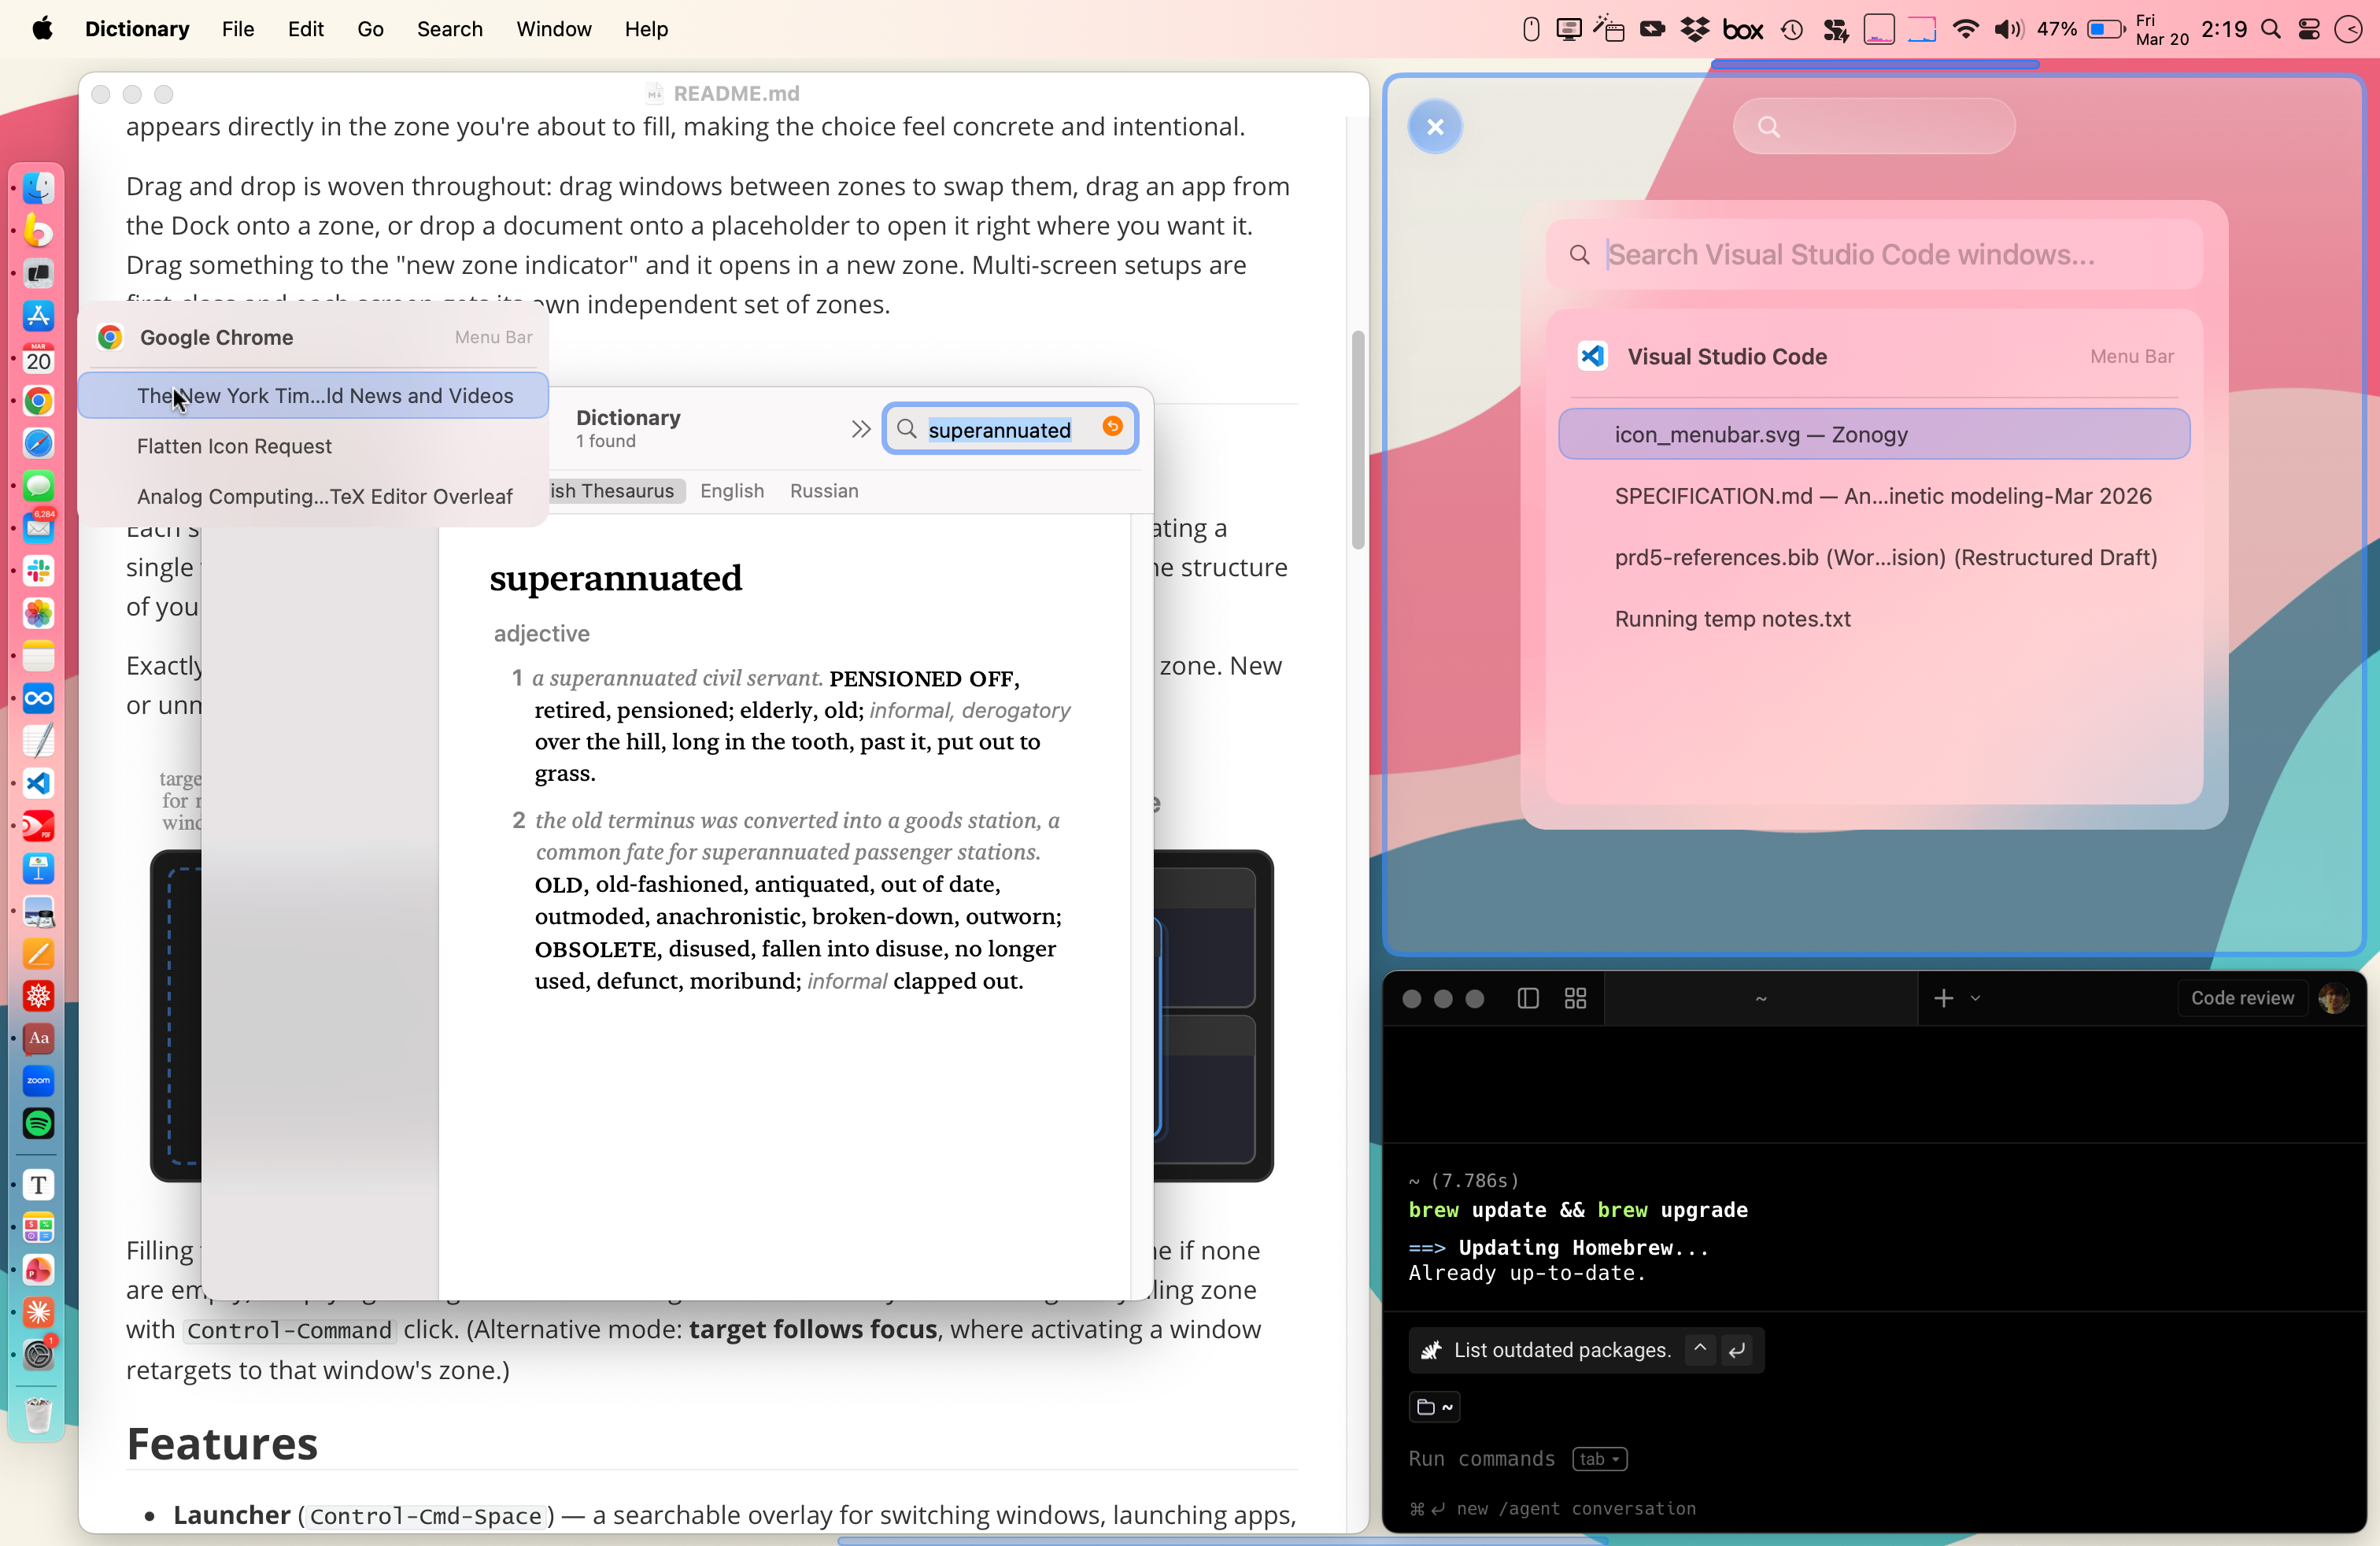
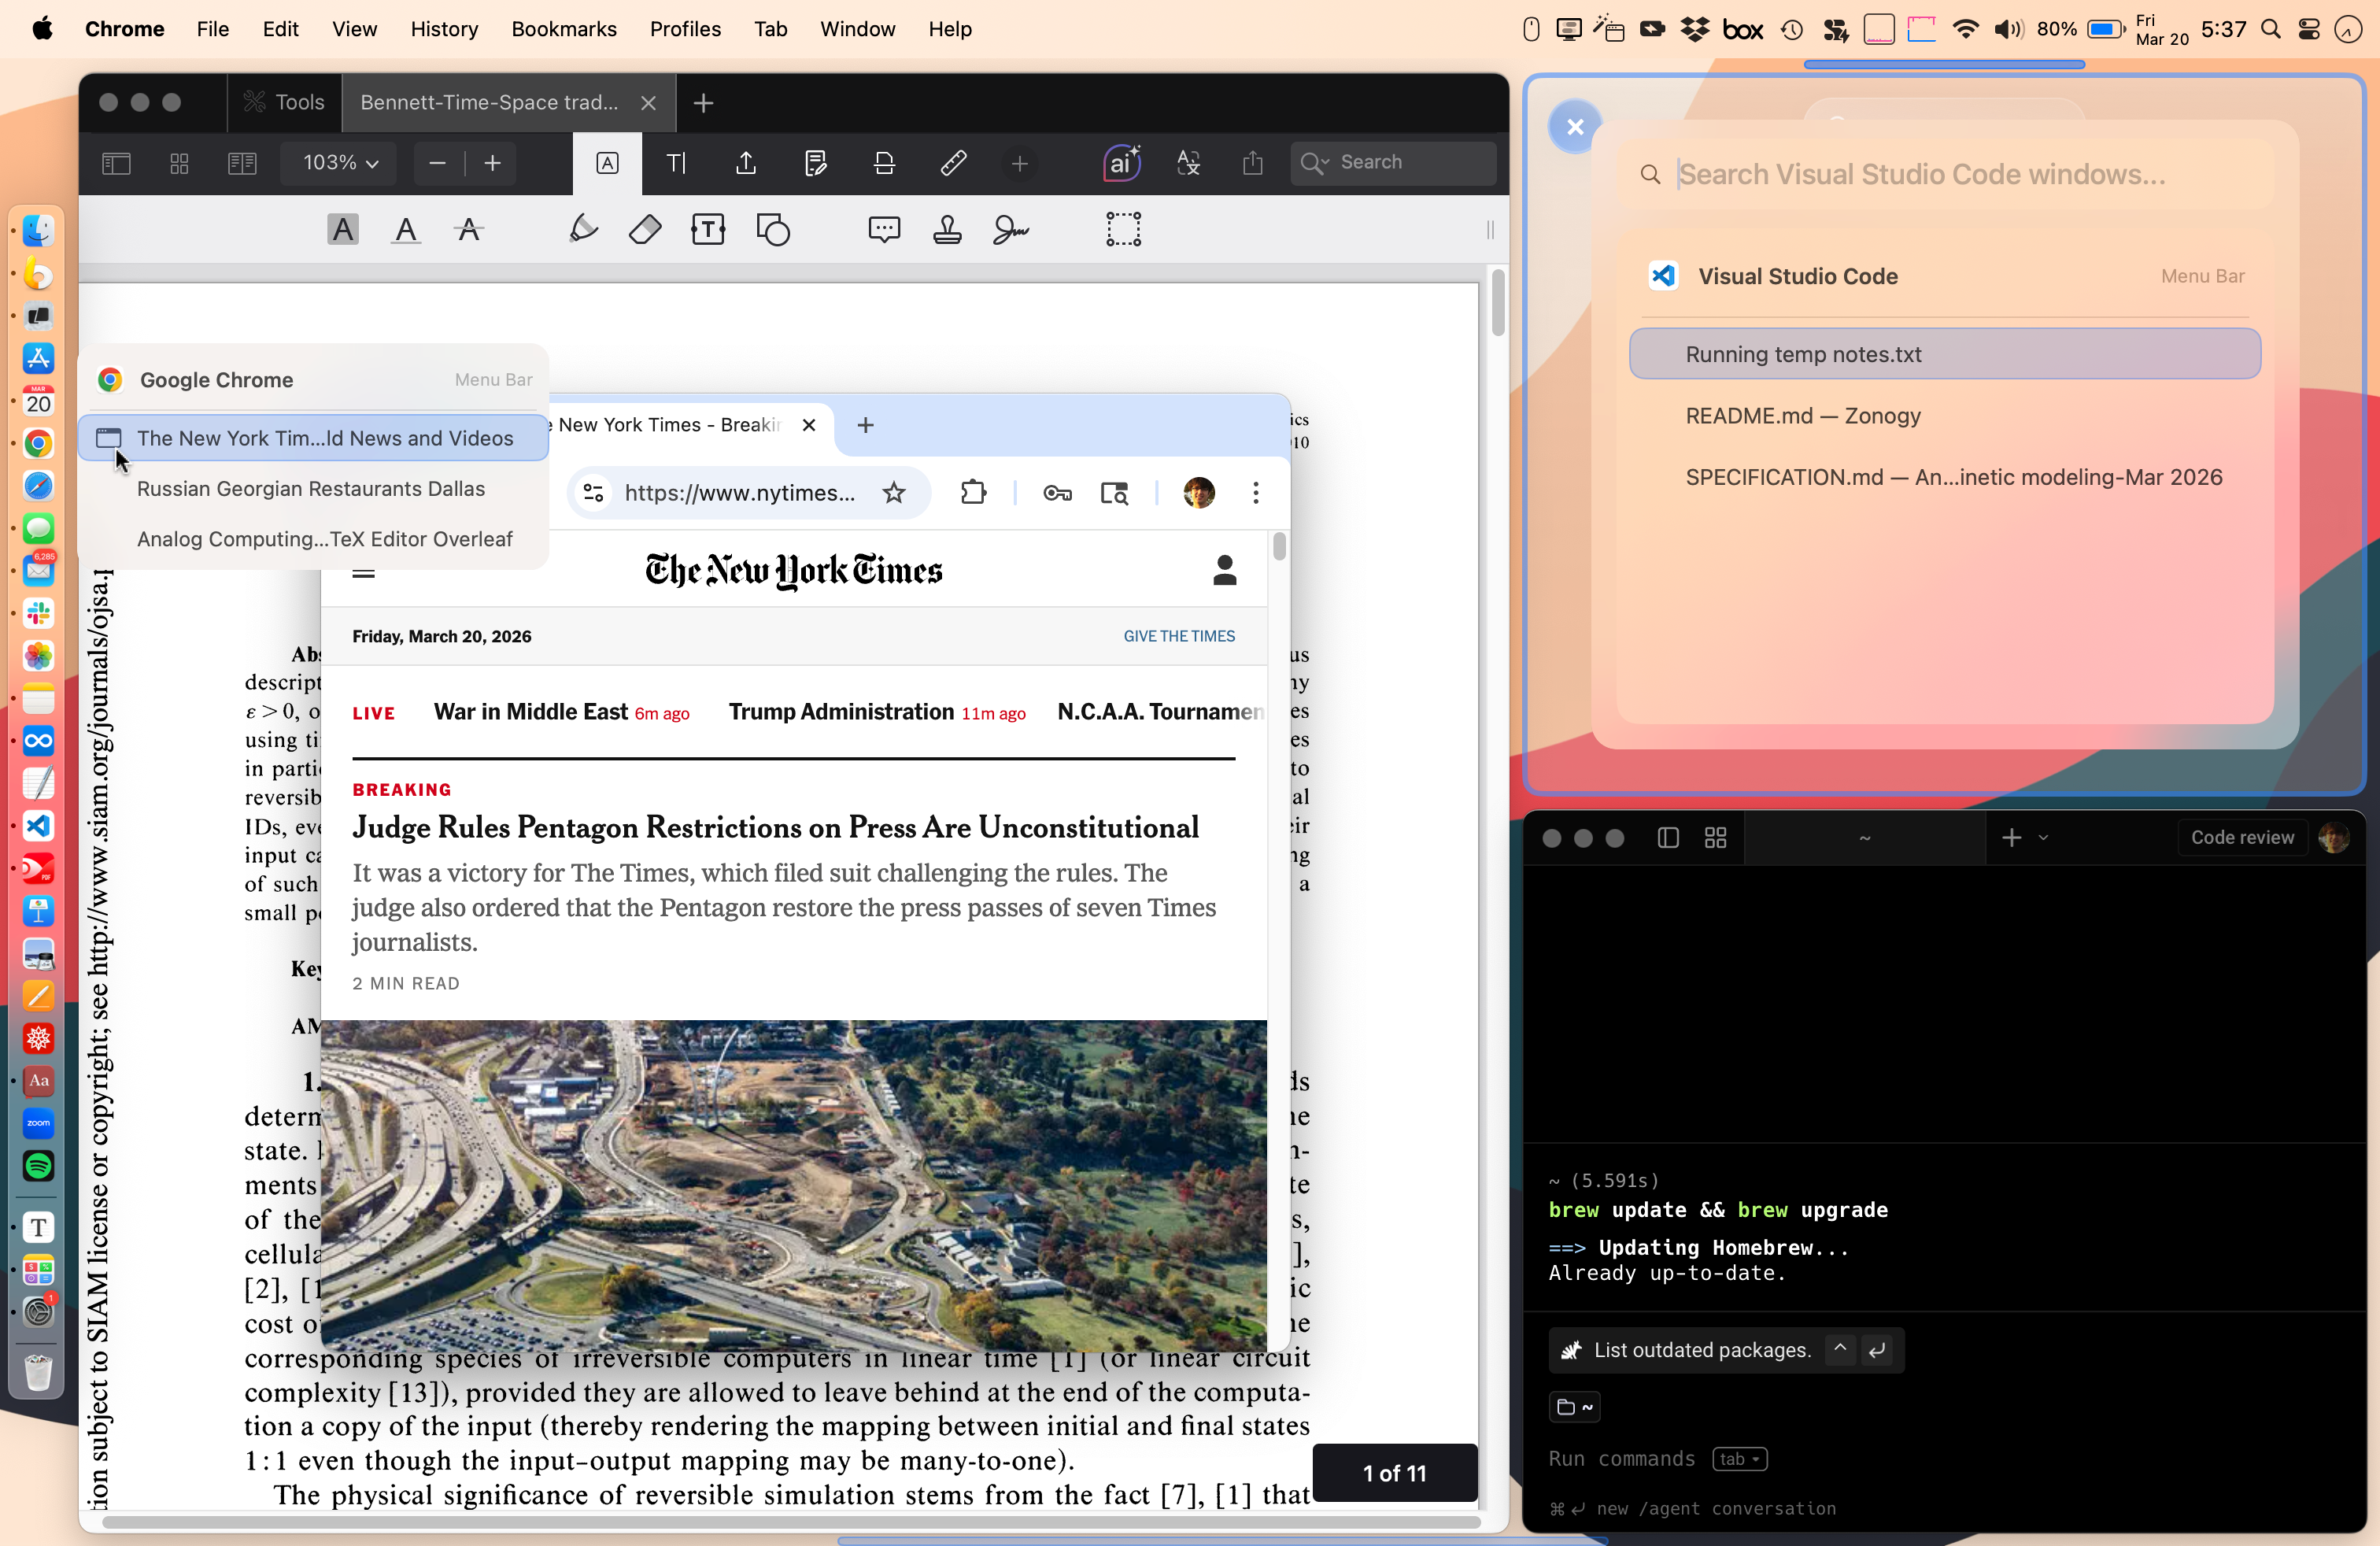
readme and hero image

diff --git a/README.md b/README.md
@@ -2,7 +2,7 @@
 
 Zonogy is a zone-based window manager for macOS. (The name suggests "the origin or formation of zones.") Zonogy is free and open source.
 
-Zonogy divides each screen into persistent tiling zones plus a floating zone, with one zone targeted for next window. Snapshot entire arrangements to switch working contexts, and find any window with a keyboard-driven Launcher or hover-over Dock menus.
+Zonogy divides each screen into persistent tiling zones plus a floating zone, with one zone targeted for the next window. Entire arrangements can be snapshotted to switch working contexts, and you can find any window with a keyboard-driven Launcher or hover-over Dock menus.
 
 > Philosophy: An intentional place for every window.
 
@@ -12,7 +12,7 @@ Zonogy divides each screen into persistent tiling zones plus a floating zone, wi
 
 Zonogy rethinks multiple aspects of the operating system UI, including window management, virtual desktops, application/window launching, and interacting with the Dock.
 
-**Window management:** Tiling window managers promise to tame a cluttered screen but they feel twitchy. Every time you open, close, or minimize a window, the entire layout reflows. Zonogy takes a different approach allowing you to define zones that persist even when empty, so your layout stays stable. An additional floating zone on each screen lets you float a window above others when you need quick access to a window without disrupting the tiling zones.
+**Window management:** Tiling window managers promise to tame a cluttered screen but they feel twitchy. Every time you open, close, or minimize a window, the entire layout reflows. Zonogy takes a different approach, allowing you to define zones that persist even when empty, so your layout stays stable. An additional floating zone on each screen lets you float a window above others when you need quick access to a window without disrupting the tiling zones.
 
 **Virtual desktops**: Virtual desktops like macOS's built-in Spaces have a limitation that a window can only belong to one space, yet the same window often belongs to more than one task. With Zonogy's **WinShot snapshots**, you can save and restore different window arrangements that could share the same windows.
 
@@ -30,9 +30,9 @@ Each screen has 1–3 **tiling zones** that form the main layout, plus a **float
 
 Exactly one zone is **targeted** at any moment, indicated by a glowing indicator above the zone. New or unminimized windows are always placed into the targeted zone.
 
-![Zones core concepts](docs/images/zone-layouts.svg)
+<img src="docs/images/zone-layouts.svg" alt="Zones core concepts" style="zoom: 25%;"/>
 
-Filling the targeted tiling zone advances to the next empty tiling zone (or the floating zone if none are empty). Emptying a tiling zone makes it targeted automatically. You can target any tiling zone with `Control-Command` click. (Alternative mode: "target follows focus", where activating a window retargets to that window's zone.)
+Filling the targeted tiling zone advances to the next empty tiling zone (or the floating zone if none are empty). Emptying a tiling zone makes it targeted automatically. You can target any tiling zone with `Control-Cmd`-click. (Alternative mode: "target follows focus", where activating a window retargets to that window's zone.)
 
 ## Features
 
@@ -98,11 +98,12 @@ Zonogy is developed with [Claude Code](https://claude.ai/claude-code) and [Codex
 
 ## History
 
-My day job is [teaching and research at UT Austin](https://www.solo-group.link/), but better UI is a passionate hobby. I originally built Zonogy for myself and decided to share it in case others find it useful. The project is unapologetically **opinionated**, reflecting how I work. For example, I've never needed more than 3 tiled windows per screen (plus a floating-zone slot), so that defines the current limit. Of course, Zonogy is open source, and contributions, experiments, and personal forks are all welcome.
+My day job is [teaching and research at UT Austin](https://www.solo-group.link/), but better UI is a passionate hobby. I originally built Zonogy for myself and decided to share it in case others find it useful. The project is unapologetically *opinionated* and reflects how I work. For example, I've never needed more than 3 tiled windows per screen (plus a floating-zone slot), so that defines the current limit. Of course, Zonogy is open source, and contributions, experiments, and personal forks are all welcome.
 
 ## Additional suggestions
 
 Remove the Zoom button floating menu; we won't use the Zoom button for anything other than making the window full-screen.
+
 ```sh
 $ defaults write -g NSZoomButtonShowMenu -bool no
 $ # to bring it back: